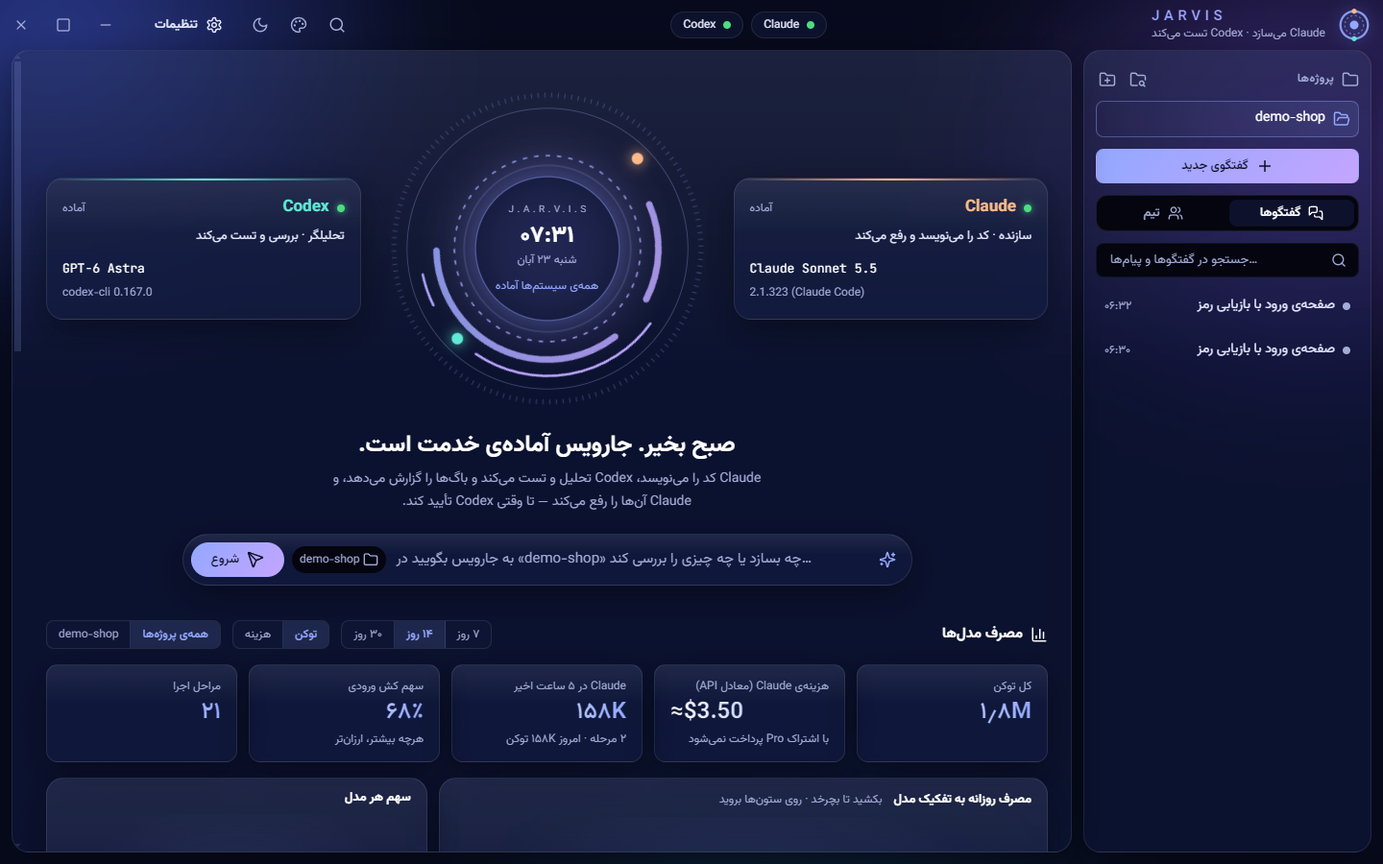
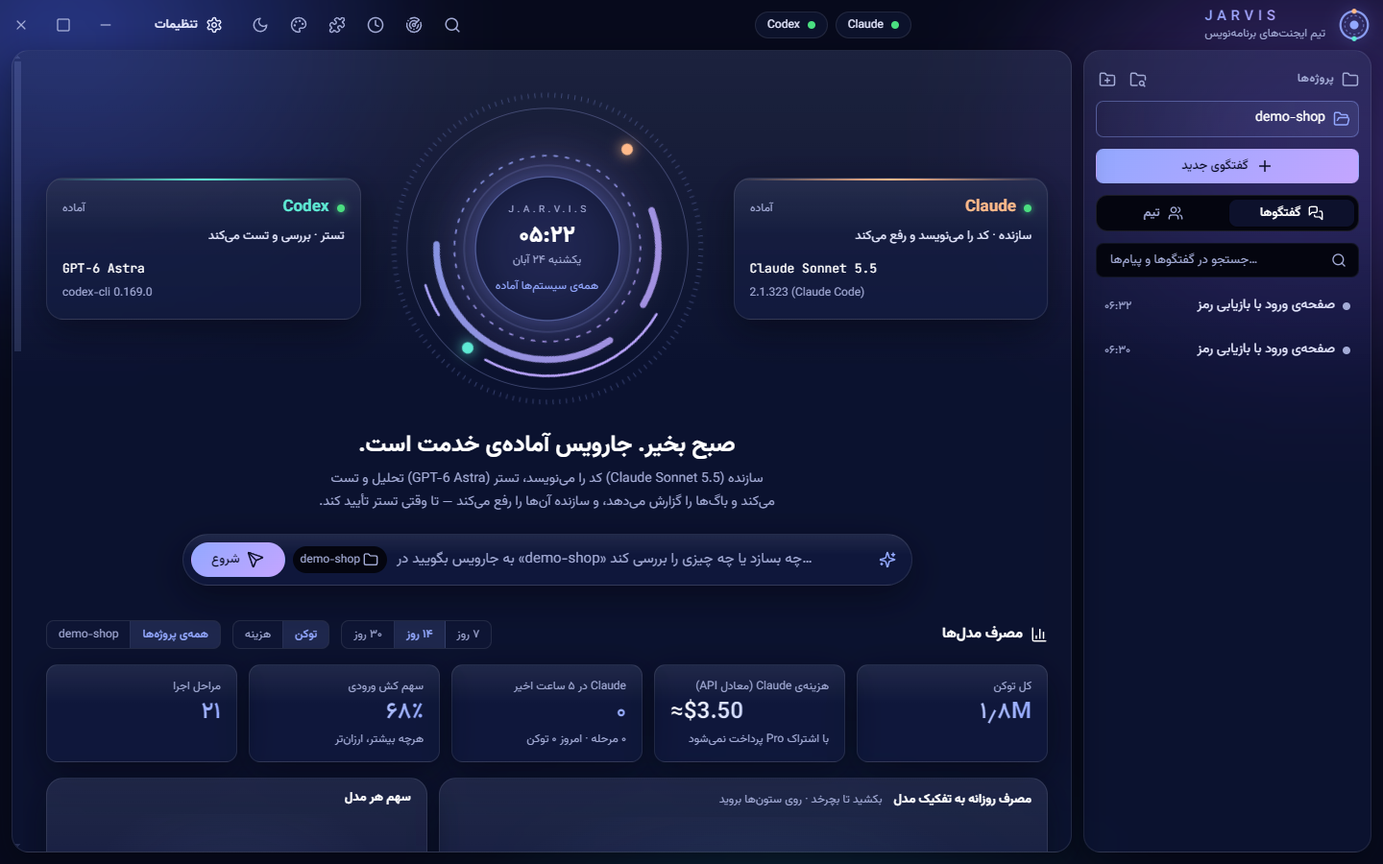
README rewritten for v1.3: new screenshots of every section and all 12 looks (dark and light); neutral home intro text

diff --git a/public/app.js b/public/app.js
@@ -1907,7 +1907,9 @@ function renderRoles() {
   if (sub) sub.textContent = 'تیم ایجنتهای برنامهنویس';
   const p = homeEl('#homeRoles');
   if (S.subagents) renderSubagents();
-  if (p) p.textContent = `${b} کد را مینویسد، ${r} تحلیل و تست میکند و باگها را گزارش میدهد، و ${b} آنها را رفع میکند — تا وقتی ${r} تأیید کند.`;
+  const ba = roleAgent('builder'), ra = roleAgent('reviewer');
+  const who = x => prettyModel(x.provider ? `p:${x.provider.id}:${x.model}` : x.model || (x.name === 'Codex' ? S.codexDefaultModel : '')) || x.name;
+  if (p) p.textContent = `سازنده (${who(ba)}) کد را مینویسد، تستر (${who(ra)}) تحلیل و تست میکند و باگها را گزارش میدهد، و سازنده آنها را رفع میکند — تا وقتی تستر تأیید کند.`;
 }
 
 // ---------- connections (custom APIs: DeepSeek, Kimi, GLM, OpenAI, …) ----------

diff --git a/README.md b/README.md
@@ -2,8 +2,11 @@
 
 # جارویس (JARVIS)
 
-**دو هوش مصنوعی برنامهنویس، کنار هم، روی کامپیوتر خودتان.**
-یکی **سازنده** است و کد را مینویسد؛ دیگری **تستر** است و کد را بررسی و تست میکند و باگها را میگوید. سازنده باگها را رفع میکند و این رفتوبرگشت آنقدر ادامه پیدا میکند تا تستر کار را تأیید کند. بهطور پیشفرض Claude میسازد و Codex تست میکند، ولی هر نقش را میتوانید به DeepSeek یا هر API دیگری بدهید.
+**یک تیم هوش مصنوعی برنامهنویس، روی کامپیوتر خودتان.**
+
+یک ایجنت **سازنده** کد را مینویسد. یک ایجنت **تستر** آن را بررسی و تست میکند و باگها را گزارش میدهد. سازنده باگها را رفع میکند و این رفتوبرگشت ادامه پیدا میکند تا تستر کار را تأیید کند.
+
+هر نقش را میتوانید به هر مدلی بدهید: Claude، ChatGPT (Codex)، DeepSeek یا هر API دیگری. در **حالت هوشمند**، خود جارویس کار را تقسیم میکند و هر بخش را به مدل مناسب و ارزانتر میدهد.
 
 ![صفحهی اصلی جارویس](docs/screenshots/home.png)
 
@@ -19,14 +22,19 @@
 
 1. [قبل از نصب چه لازم دارید؟](#قبل-از-نصب-چه-لازم-دارید)
 2. [نصب، قدم به قدم](#نصب-قدم-به-قدم)
-3. [اولین بار: وصل کردن Claude و Codex](#اولین-بار-وصل-کردن-claude-و-codex)
+3. [اولین بار: وصل کردن حسابها](#اولین-بار-وصل-کردن-حسابها)
 4. [اولین کار با جارویس](#اولین-کار-با-جارویس)
 5. [حالتهای کار](#حالتهای-کار)
-6. [اتصالدهندهها و پلاگینها](#اتصالدهندهها-و-پلاگینها)
-7. [صف کارها و اتاق عملیات](#صف-کارها-و-اتاق-عملیات)
-8. [ترفندهای کاربردی](#ترفندهای-کاربردی)
-9. [بهروزرسانی](#بهروزرسانی)
-10. [اگر به مشکل خوردید](#اگر-به-مشکل-خوردید)
+6. [حالت هوشمند](#حالت-هوشمند)
+7. [اتصالدهندهها (MCP)](#اتصالدهندهها-mcp)
+8. [پلاگینها](#پلاگینها)
+9. [صف کارها](#صف-کارها)
+10. [اتاق عملیات سهبعدی](#اتاق-عملیات-سهبعدی)
+11. [۱۲ ظاهر](#۱۲-ظاهر)
+12. [امکانات دیگر](#امکانات-دیگر)
+13. [ترفندهای کاربردی](#ترفندهای-کاربردی)
+14. [بهروزرسانی](#بهروزرسانی)
+15. [اگر به مشکل خوردید](#اگر-به-مشکل-خوردید)
 
 ---
 
@@ -35,12 +43,14 @@
 | چه چیزی | چرا | از کجا |
 |---|---|---|
 | ویندوز ۱۰ یا ۱۱ (۶۴ بیتی) | جارویس برنامهی ویندوز است | — |
-| **کلید API از Anthropic** | تا Claude کد بنویسد | [console.anthropic.com](https://console.anthropic.com/settings/keys) |
-| **حساب ChatGPT** (یا کلید API از OpenAI) | تا Codex بررسی و تست کند | [chatgpt.com](https://chatgpt.com) |
-| Node.js | فقط برای نصب Codex | [nodejs.org](https://nodejs.org) — نسخهی LTS |
+| **کلید API از Anthropic** | برای مدلهای Claude | [console.anthropic.com](https://console.anthropic.com/settings/keys) |
+| **حساب ChatGPT** (یا کلید API از OpenAI) | برای Codex | [chatgpt.com](https://chatgpt.com) |
+| Node.js | برای نصب Codex و بیشتر اتصالدهندهها | [nodejs.org](https://nodejs.org) — نسخهی LTS |
 | Git (پیشنهادی) | برای نقطهی بازگشت و دیدن تغییرات هر فایل | [git-scm.com](https://git-scm.com/downloads) |
 
-> **لازم نیست** Claude Code یا Codex را جداگانه نصب کنید: خود جارویس در اولین اجرا نصبشان میکند.
+> **لازم نیست** هم Claude داشته باشید و هم ChatGPT. با یکی از آنها، یا فقط با یک API دیگر (مثلاً DeepSeek) هم کار میکند.
+>
+> Claude Code و Codex را هم لازم نیست جداگانه نصب کنید: خود جارویس در اولین اجرا نصبشان میکند.
 
 ---
 
@@ -60,47 +70,49 @@
 
 ---
 
-## اولین بار: وصل کردن Claude و Codex
+## اولین بار: وصل کردن حسابها
 
-بار اول خودبهخود پنجرهی **«اتصال حسابها»** باز میشود (بعداً هم از زبانهی **تیم** ← **اتصال حسابها** در دسترس است). هر کارت باید سبز و **«متصل»** شود.
+بار اول خودبهخود پنجرهی **«اتصالها»** باز میشود. بعداً هم از زبانهی **تیم** ← **اتصال حسابها** در دسترس است. هر کارت باید سبز و **«متصل»** شود.
 
 ### Claude
-1. اگر نوشته «Claude CLI نصب نیست»، روی **نصب Claude CLI** بزنید. یک پنجرهی سیاه باز میشود و نصب میکند؛ وقتی تمام شد آن را ببندید و **بررسی دوباره** را بزنید.
+1. اگر نوشته «Claude CLI نصب نیست»، روی **نصب Claude CLI** بزنید. یک پنجرهی سیاه باز میشود و نصب میکند. وقتی تمام شد آن را ببندید و **بررسی دوباره** را بزنید.
 2. روی **گرفتن کلید از Anthropic Console** بزنید. در سایت وارد شوید، **Create Key** را بزنید و کلیدی را که با `sk-ant-` شروع میشود کپی کنید.
 3. کلید را در کادر جارویس بچسبانید و **ذخیرهی کلید** را بزنید.
 
-### Codex
+### Codex (ChatGPT)
 1. اگر نوشته «برای نصب Codex اول Node.js لازم است»، روی **دانلود Node.js** بزنید، آن را نصب کنید و جارویس را یک بار ببندید و باز کنید.
-2. روی **نصب Codex CLI** بزنید؛ وقتی پنجرهی نصب تمام شد، **بررسی دوباره** را بزنید.
-3. روی **ورود با حساب ChatGPT** بزنید. مرورگر باز میشود؛ وارد حساب ChatGPT شوید و اجازه بدهید. (یا بهجای آن، کلید API از OpenAI را ذخیره کنید.)
+2. روی **نصب Codex CLI** بزنید. وقتی پنجرهی نصب تمام شد، **بررسی دوباره** را بزنید.
+3. روی **ورود با حساب ChatGPT** بزنید. مرورگر باز میشود؛ وارد حساب ChatGPT شوید و اجازه بدهید. بهجای آن میتوانید کلید API از OpenAI را ذخیره کنید.
 
-> کلیدها فقط روی همین کامپیوتر و رمزنگاریشده ذخیره میشوند و هیچجا فرستاده نمیشوند.
+> کلیدها رمزنگاریشده و فقط روی همین کامپیوتر ذخیره میشوند.
 
-### اتصال به DeepSeek و APIهای دیگر
+### DeepSeek و APIهای دیگر
 
-لازم نیست حتماً Claude و Codex باشند. در پنجرهی **اتصالها**، بخش **اتصالهای دیگر**، روی **افزودن اتصال** بزنید:
+در پنجرهی **اتصالها**، بخش **اتصالهای دیگر**، روی **افزودن اتصال** بزنید:
 
-1. **سرویس** را انتخاب کنید (DeepSeek، Kimi، GLM، MiniMax، OpenAI یا سفارشی). آدرس خودش پر میشود.
-2. **کلید API** همان سرویس را بچسبانید (لینک «گرفتن کلید» کنارش است).
-3. **دریافت فهرست مدلها** و بعد **آزمایش اتصال** را بزنید؛ باید بنویسد «اتصال برقرار است».
-4. **ذخیره** را بزنید.
+1. **سرویس** را انتخاب کنید: DeepSeek، Kimi، GLM، MiniMax، OpenAI یا سفارشی. آدرسش خودش پر میشود.
+2. **کلید API** همان سرویس را بچسبانید. لینک «گرفتن کلید» کنارش است.
+3. **دریافت فهرست مدلها** و بعد **آزمایش اتصال** را بزنید. باید بنویسد «اتصال برقرار است».
+4. اگر بخواهید، **قیمت** هر یک میلیون توکن را وارد کنید تا هزینهاش حساب شود.
+5. **آزمایش کامل** یک کار واقعی کوچک را یک بار بهعنوان سازنده و یک بار بهعنوان تستر اجرا میکند.
+6. **ذخیره** را بزنید.
 
 حالا در **تنظیمات ← مدلها** یا پایین کادر پیام، آن را برای **سازنده** یا **تستر** انتخاب کنید. هر ترکیبی کار میکند؛ مثلاً DeepSeek بسازد و Codex تست کند.
 
-> کلید هر اتصال فقط به همان سرویس فرستاده میشود و هر اتصال پروفایل جدای خودش را دارد؛ ورود Claude و ChatGPT شما هرگز به آن سرویسها داده نمیشود.
+> کلید هر اتصال فقط به همان سرویس فرستاده میشود و هر اتصال پروفایل جدای خودش را دارد. ورود Claude و ChatGPT شما هرگز به آن سرویسها داده نمیشود.
 
 ---
 
 ## اولین کار با جارویس
 
-**۱. یک پروژه اضافه کنید** — در نوار کناری، کنار «پروژهها»، روی آیکون پوشه با علامت **+** بزنید و مسیر پوشهی پروژه را بنویسید (مثلاً `C:\Projects\my-site`). یا آیکون ذرهبین را بزنید تا جارویس پروژههایی را که قبلاً با Claude یا Codex باز کردهاید خودش پیدا کند.
+**۱. یک پروژه اضافه کنید** — در نوار کناری، کنار «پروژهها»، روی آیکون پوشه با علامت **+** بزنید و مسیر پوشهی پروژه را بنویسید (مثلاً `C:\Projects\my-site`). آیکون ذرهبین پروژههایی را که قبلاً با Claude Code یا Codex باز کردهاید خودش پیدا میکند.
 
 **۲. فرمان بدهید** — در صفحهی اصلی، در کادر وسط بنویسید چه میخواهید؛ مثلاً:
 > یک صفحهی ورود با بازیابی رمز عبور بساز
 
 و **شروع** را بزنید.
 
-**۳. تماشا کنید** — Claude مینویسد، Codex بررسی میکند، اگر باگی بود Claude رفع میکند. در پایان یک **گزارش** میآید: چه فایلهایی عوض شد، چند دور طول کشید و آیا تأیید شد.
+**۳. تماشا کنید** — سازنده مینویسد، جارویس تستهای خود پروژه را اجرا میکند، تستر بررسی میکند و اگر باگی بود سازنده رفع میکند. در پایان یک **گزارش** میآید: چه فایلهایی عوض شد، چند دور طول کشید، هزینه چقدر شد و آیا تأیید شد.
 
 ![یک گفتگو در جارویس](docs/screenshots/chat.png)
 
@@ -115,76 +127,163 @@
 | حالت | چه میکند | کی به درد میخورد |
 |---|---|---|
 | **تیمی** | سازنده مینویسد ← تستر تست میکند ← سازنده رفع میکند | بیشتر وقتها |
-| **هوشمند** | جارویس کار را به چند بخش تقسیم میکند و هر بخش را با مدل مناسبش انجام میدهد؛ بعد تستر کل کار را بررسی میکند | کارهای بزرگ، وقتی میخواهید ارزانتر تمام شود |
+| **هوشمند** | جارویس کار را تقسیم میکند و هر بخش را با مدل مناسبش انجام میدهد؛ بعد تستر کل کار را بررسی میکند | کارهای بزرگ، وقتی میخواهید ارزانتر تمام شود |
 | **بازرسی و رفع** | اول تستر کل پروژه را بررسی میکند، بعد سازنده باگها را رفع میکند | پروژهی موجودی که مشکل دارد |
 | **طراحی** | سازنده طرح میدهد، تستر نقد میکند، طرح نهایی (بدون تغییر کد) | قبل از یک کار بزرگ |
 | **فقط سازنده** | بدون بررسی | سؤال یا کار سریع |
 | **فقط تستر** | فقط خواندنی | نظر دوم دربارهٔ کد |
 
-پایین کادر پیام میتوانید **مدل** سازنده و تستر را برای همین گفتگو انتخاب کنید، و **برآورد هزینه**ی کار بعدی را ببینید.
-
-### حالت هوشمند چطور کار میکند؟
-
-1. یک مدل ارزان و سریع (پیشفرض: Claude Haiku 5.5) پیام شما را میخواند و کار را به ۱ تا ۶ بخش تقسیم میکند. هر بخش یک سطح دارد: **سخت**، **متوسط** یا **ساده**.
-2. هر سطح با مدل خودش انجام میشود (پیشفرض: سخت ← Claude Opus 5.5، متوسط ← Claude Sonnet 5.5، ساده ← Claude Haiku 5.5). در **تنظیمات ← حالت هوشمند** میتوانید هر سطح را به هر مدل یا اتصالی (مثل DeepSeek) بدهید.
-3. یک کارت، برنامه و هزینهی تخمینی را نشان میدهد و آن را با هزینهی «همه با قویترین مدل» مقایسه میکند. اگر «اجرای خودکار» را خاموش کنید، قبل از شروع میتوانید مدل هر بخش را عوض کنید.
-4. در آخر تستر کل کار را بررسی میکند و باگها با مدل «متوسط» رفع میشوند.
-
-برای یک تغییر کوچک، برنامهریز فقط یک بخش میسازد؛ پس حالت هوشمند گرانتر از تیمی نمیشود.
+پایین کادر پیام:
+- **ترکیب تیم**: ترکیبهای آماده، مثلاً «قوی»، «متعادل»، «اقتصادی» یا «DeepSeek برای هر دو نقش». ترکیب خودتان را هم میتوانید ذخیره کنید.
+- **مدل و میزان فکر** سازنده و تستر، برای همین گفتگو.
+- **برآورد هزینه**ی کار بعدی، بر اساس کارهای قبلی.
 
 ---
 
-## اتصالدهندهها و پلاگینها
+## حالت هوشمند
 
-دکمهی 🧩 بالای صفحه.
+![کارت تقسیم کار هوشمند](docs/screenshots/smart.png)
 
-**اتصالدهندهها (MCP)** همان سرورهای MCP هستند که Claude Code هم استفاده میکند: ابزارهای اضافه برای ایجنتها، مثل مرورگر واقعی (Playwright)، مستندات بهروز (Context7)، GitHub، پایگاهداده و جستجو. چند نمونهی آماده هست و هر سرور دیگری را هم میتوانید اضافه کنید.
+1. یک مدل ارزان و سریع (پیشفرض: Claude Haiku 5.5) پیام شما را میخواند و کار را به ۱ تا ۶ بخش تقسیم میکند. هر بخش یک سطح دارد: **سخت**، **متوسط** یا **ساده**.
+2. هر سطح با مدل خودش انجام میشود. پیشفرض: سخت ← Claude Opus 5.5، متوسط ← Claude Sonnet 5.5، ساده ← Claude Haiku 5.5.
+3. یک کارت، برنامه و هزینهی تخمینی را نشان میدهد و آن را با هزینهی «همه با قویترین مدل» مقایسه میکند.
+4. هر بخش خلاصهی کار بخشهای قبلی را میگیرد تا چیزی گم نشود.
+5. در آخر تستر کل کار را بررسی میکند و باگها با مدل «متوسط» رفع میشوند.
+
+در **تنظیمات ← حالت هوشمند** میتوانید هر سطح را به هر مدل یا اتصالی (مثلاً DeepSeek) بدهید. اگر «اجرای خودکار» را خاموش کنید، قبل از شروع میتوانید مدل هر بخش را عوض کنید.
+
+![تنظیمات حالت هوشمند](docs/screenshots/settings.png)
+
+> برای یک تغییر کوچک، برنامهریز فقط یک بخش میسازد؛ پس حالت هوشمند گرانتر از تیمی نمیشود.
+
+---
+
+## اتصالدهندهها (MCP)
+
+دکمهی 🧩 بالای صفحه ← زبانهی **اتصالدهندهها**.
+
+اتصالدهندهها همان سرورهای MCP هستند که Claude Code هم استفاده میکند: ابزارهای اضافه برای ایجنتها. چند نمونهی آماده هست:
+
+| اتصالدهنده | چه میکند |
+|---|---|
+| **Playwright** | مرورگر واقعی: باز کردن صفحه، کلیک، اسکرینشات — عالی برای تستر وب |
+| **Context7** | مستندات بهروز کتابخانهها، برای نوشتن کد درست |
+| **GitHub** | Issueها، Pull Requestها و کد مخزنها |
+| **PostgreSQL** | خواندن ساختار و دادهی پایگاهداده |
+| **Memory** | حافظهی ماندگار بین اجراها |
+| **Sequential Thinking** | فکر کردن مرحلهبهمرحله برای مسئلههای سخت |
+| **Brave Search** | جستجوی وب |
+
+با **اتصالدهندهی دلخواه** هر سرور MCP دیگری را هم اضافه کنید: یک فرمان (مثل `npx …`) یا یک آدرس https.
+
+![اتصالدهندهها](docs/screenshots/connectors.png)
+
 - برای هر کدام انتخاب کنید به **سازنده**، **تستر اصلی** یا **سابایجنتها** داده شود.
 - روی همهی موتورها کار میکند: Claude، Codex و اتصالهایی مثل DeepSeek.
 - دکمهی **آزمایش** سرور را اجرا میکند و فهرست ابزارهایش را نشان میدهد.
 - کلیدها و توکنها رمزنگاریشده و فقط روی همین کامپیوتر ذخیره میشوند.
 
-**پلاگینها** با همان قالب پلاگینهای Claude Code هستند. از سه جا نصب میشوند:
-- یک مخزن GitHub یا مارکتپلیس (مثلاً `anthropics/claude-plugins-official`)
+---
+
+## پلاگینها
+
+دکمهی 🧩 بالای صفحه ← زبانهی **پلاگینها**.
+
+پلاگینها با همان قالب پلاگینهای Claude Code هستند و از سه جا نصب میشوند:
+- یک مخزن GitHub یا یک مارکتپلیس، مثلاً `anthropics/claude-plugins-official` (بیش از ۳۰۰ پلاگین) یا `anthropics/claude-code`
 - پلاگینهایی که در خود Claude Code نصب کردهاید
 - یک پوشه
 
+![نصب پلاگین از مارکتپلیس](docs/screenshots/plugins.png)
+
 بعد از نصب:
-- ایجنتهای پلاگین به تیم اضافه میشوند: بررسیکنندهها کنار تستر، بقیه کمک سازنده.
-- اسکیلها به ایجنتها وصل میشوند.
-- فرمانها بالای کادر پیام میآیند.
-- سرورهای MCP پلاگین به اتصالدهندهها اضافه میشوند.
+- **ایجنتهای** پلاگین به تیم اضافه میشوند: بررسیکنندهها کنار تستر، بقیه کمک سازنده.
+- **اسکیلها** به ایجنتها وصل میشوند. اگر پلاگین ایجنت نداشته باشد، اسکیلها به خود سازنده داده میشوند.
+- **فرمانها** بالای کادر پیام میآیند.
+- **سرورهای MCP** پلاگین به اتصالدهندهها اضافه میشوند، ولی **خاموش**. اول فرمانشان را ببینید و اگر اعتماد دارید روشنشان کنید.
 
 ---
 
-## صف کارها و اتاق عملیات
+## صف کارها
 
-**صف کارها** (دکمهی 🕒): چند کار، حتی برای پروژههای مختلف، بچینید تا یکییکی اجرا شوند؛ همین حالا یا از ساعتی که تعیین میکنید، مثلاً شب. اگر «اعلان روی گوشی» روشن باشد، آخر کار خلاصهی نتیجه به بله یا تلگرام شما میآید.
+دکمهی 🕒 بالای صفحه.
 
-**اتاق عملیات** (دکمهی 📡): نمای سهبعدی و زندهی همهی ایجنتهایی که الان کار میکنند.
+چند کار، حتی برای پروژههای مختلف، بچینید تا یکییکی اجرا شوند؛ همین حالا یا از ساعتی که تعیین میکنید، مثلاً شب. اگر **اعلان روی گوشی** روشن باشد، آخر کار خلاصهی نتیجه به بله یا تلگرام شما میآید.
+
+![صف کارها](docs/screenshots/queue.png)
+
+---
+
+## اتاق عملیات سهبعدی
+
+دکمهی 📡 بالای صفحه.
+
+نمای سهبعدی و زندهی همهی ایجنتهایی که الان کار میکنند، دور واکنشگر مرکزی جارویس:
 - بالای هر ایجنت نوشته میشود الان چه میکند، مثلاً «در حال نوشتن src/cart.js» یا «اجرای npm test».
-- وقتی کار از یک ایجنت به ایجنت دیگر میرسد، پرتویی بینشان رد میشود.
-- با کلیک روی هر ایجنت، گزارش زندهاش باز میشود.
+- رنگها: نارنجی سازنده، فیروزهای تستر، سبز سابایجنتها.
+- وقتی کار از یک ایجنت به ایجنت دیگر میرسد، پرتویی بینشان رد میشود. ویرایش هر فایل جرقه میزند.
+- با کلیک روی هر ایجنت، گزارش زندهاش باز میشود. با موس صحنه را بچرخانید و زوم کنید.
+
+![اتاق عملیات سهبعدی](docs/screenshots/ops.png)
+
+---
+
+## ۱۲ ظاهر
+
+دکمهی 🎨 بالای صفحه. هر ظاهر نسخهی تیره و روشن دارد. کنار آن، دکمهی 🌙 تیره، روشن یا هماهنگ با ویندوز را انتخاب میکند.
+
+![انتخاب ظاهر](docs/screenshots/looks.png)
+
+<table>
+<tr><th>ظاهر</th><th>تیره</th><th>روشن</th></tr>
+<tr><td><b>هولوگرام</b><br><code>holo</code></td><td><img src="docs/screenshots/skins/skin-holo-dark.png" width="360" alt="هولوگرام — تیره"></td><td><img src="docs/screenshots/skins/skin-holo-light.png" width="360" alt="هولوگرام — روشن"></td></tr>
+<tr><td><b>نیمهشب</b><br><code>midnight</code></td><td><img src="docs/screenshots/skins/skin-midnight-dark.png" width="360" alt="نیمهشب — تیره"></td><td><img src="docs/screenshots/skins/skin-midnight-light.png" width="360" alt="نیمهشب — روشن"></td></tr>
+<tr><td><b>زره</b><br><code>armor</code></td><td><img src="docs/screenshots/skins/skin-armor-dark.png" width="360" alt="زره — تیره"></td><td><img src="docs/screenshots/skins/skin-armor-light.png" width="360" alt="زره — روشن"></td></tr>
+<tr><td><b>راکتور</b><br><code>arc</code></td><td><img src="docs/screenshots/skins/skin-arc-dark.png" width="360" alt="راکتور — تیره"></td><td><img src="docs/screenshots/skins/skin-arc-light.png" width="360" alt="راکتور — روشن"></td></tr>
+<tr><td><b>جنگل</b><br><code>forest</code></td><td><img src="docs/screenshots/skins/skin-forest-dark.png" width="360" alt="جنگل — تیره"></td><td><img src="docs/screenshots/skins/skin-forest-light.png" width="360" alt="جنگل — روشن"></td></tr>
+<tr><td><b>اقیانوس</b><br><code>ocean</code></td><td><img src="docs/screenshots/skins/skin-ocean-dark.png" width="360" alt="اقیانوس — تیره"></td><td><img src="docs/screenshots/skins/skin-ocean-light.png" width="360" alt="اقیانوس — روشن"></td></tr>
+<tr><td><b>غروب</b><br><code>sunset</code></td><td><img src="docs/screenshots/skins/skin-sunset-dark.png" width="360" alt="غروب — تیره"></td><td><img src="docs/screenshots/skins/skin-sunset-light.png" width="360" alt="غروب — روشن"></td></tr>
+<tr><td><b>گلسرخ</b><br><code>rose</code></td><td><img src="docs/screenshots/skins/skin-rose-dark.png" width="360" alt="گلسرخ — تیره"></td><td><img src="docs/screenshots/skins/skin-rose-light.png" width="360" alt="گلسرخ — روشن"></td></tr>
+<tr><td><b>کاغذ</b><br><code>paper</code></td><td><img src="docs/screenshots/skins/skin-paper-dark.png" width="360" alt="کاغذ — تیره"></td><td><img src="docs/screenshots/skins/skin-paper-light.png" width="360" alt="کاغذ — روشن"></td></tr>
+<tr><td><b>شمال</b><br><code>nord</code></td><td><img src="docs/screenshots/skins/skin-nord-dark.png" width="360" alt="شمال — تیره"></td><td><img src="docs/screenshots/skins/skin-nord-light.png" width="360" alt="شمال — روشن"></td></tr>
+<tr><td><b>سایبرپانک</b><br><code>cyber</code></td><td><img src="docs/screenshots/skins/skin-cyber-dark.png" width="360" alt="سایبرپانک — تیره"></td><td><img src="docs/screenshots/skins/skin-cyber-light.png" width="360" alt="سایبرپانک — روشن"></td></tr>
+<tr><td><b>تکرنگ</b><br><code>mono</code></td><td><img src="docs/screenshots/skins/skin-mono-dark.png" width="360" alt="تکرنگ — تیره"></td><td><img src="docs/screenshots/skins/skin-mono-light.png" width="360" alt="تکرنگ — روشن"></td></tr>
+</table>
+
+---
+
+## امکانات دیگر
+
+- **تستهای خود پروژه** — جارویس بعد از هر دور، تستهای پروژه را خودش اجرا میکند (npm test، pytest، go test و …). تا تستها پاس نشوند، کار تأیید نمیشود.
+- **سابایجنتها** — متخصصهایی مثل امنیت، کارایی، UI/UX، نوشتن تست و مستندات، که کنار تستر یا کمک سازنده کار میکنند. با `@نام` در پیام مستقیم صدایشان کنید. هر کدام اسکیل و مدل خودش را میتواند داشته باشد.
+- **جایگزین خودکار** — اگر سازنده یا تستر خطا داد، همان مرحله یک بار با مدل جایگزین تکرار میشود.
+- **سهمیهی اشتراک** — اگر سهمیهی Claude پر شد، جارویس صبر میکند و بعد از تمدید خودش ادامه میدهد، یا Codex موقتاً جای سازنده کد مینویسد.
+- **خلاصه و ادامه** — گفتگوهای خیلی طولانی را خلاصه کنید و با نشست تازه ادامه دهید تا ارزانتر شود.
+- **حافظهی پروژه** — جارویس قانونهایی را که از کار یاد گرفته پیشنهاد میدهد. با یک کلیک به `CLAUDE.md` و `AGENTS.md` اضافه میشوند.
+- **اعلان روی گوشی** — پایان هر کار در بله یا تلگرام خبر داده میشود.
+- **تغییرات فایل به فایل** — ببینید هر فایل چطور عوض شد و هر کدام را جدا برگردانید. commit و Pull Request هم از خود جارویس.
+- **پیشنمایش** — پروژهی وب را اجرا کنید و همانجا ببینید.
+- **بازرسی زمانبندیشده** — هر روز در ساعتی که تعیین میکنید، پروژه خودکار بازرسی شود.
+- **نمودار مصرف** — توکنها و هزینهی هر مدل در صفحهی اصلی، به تفکیک Claude، ChatGPT و اتصالهای دیگر.
+- **پشتیبانگیری**، **عیبیابی** و **بهروزرسانی CLIها** از زبانهی **تیم**.
 
 ---
 
 ## ترفندهای کاربردی
 
-- **تصویر بفرستید** — اسکرینشات را با `Ctrl+V` در کادر پیام بچسبانید یا بکشید داخلش؛ Claude آن را میبیند.
+- **تصویر بفرستید** — اسکرینشات را با `Ctrl+V` در کادر پیام بچسبانید یا بکشید داخلش؛ ایجنت آن را میبیند.
 - **جستجو و فرمان سریع** — `Ctrl+K` را بزنید و هر پروژه، گفتگو یا فرمانی را پیدا کنید.
-- **فرمانهای آماده** — دستورهایی که زیاد تکرار میکنید را ذخیره کنید (دکمهی مداد بالای کادر پیام).
+- **فرمانهای آماده** — دستورهایی که زیاد تکرار میکنید را ذخیره کنید (دکمهی مداد بالای کادر پیام). فرمانهای پلاگینها هم همانجا میآیند.
 - **فرمانهای قبلی** — در کادر پیام کلید `↑` را بزنید.
+- **پیام وسط کار** — وقتی تیم در حال کار است هم پیام بفرستید؛ در مرحلهی بعد به سازنده میرسد.
 - **کار در پسزمینه** — اگر پنجره را ببندید، جارویس کنار ساعت ویندوز میماند و کار ادامه پیدا میکند. خروج کامل: راستکلیک روی آیکون کنار ساعت ← **خروج کامل**.
 - **میانبر** — `Ctrl+Shift+J` از هر جای ویندوز جارویس را باز میکند.
-- **۱۲ ظاهر** — دکمهی 🎨 بالای صفحه؛ هر کدام تیره و روشن دارد.
-
-![انتخاب ظاهر](docs/screenshots/looks.png)
 
 ---
 
 ## بهروزرسانی
 
-کاری لازم نیست. جارویس هر چند ساعت نسخهی تازه را از همین صفحه بررسی و در پسزمینه دانلود میکند. وقتی آماده شد، پایین صفحه نوار **«نسخهی تازه آمادهی نصب است»** میآید؛ **نصب و راهاندازی دوباره** را بزنید (یا بگذارید با بستن کامل برنامه خودش نصب شود).
+کاری لازم نیست. جارویس هر چند ساعت نسخهی تازه را بررسی و در پسزمینه دانلود میکند. وقتی آماده شد، پایین صفحه نوار **«نسخهی تازه آمادهی نصب است»** میآید. **نصب و راهاندازی دوباره** را بزنید، یا بگذارید با بستن کامل برنامه خودش نصب شود.
 
 بررسی دستی: زبانهی **تیم** ← **عیبیابی** ← **بررسی بهروزرسانی**.
 
@@ -209,6 +308,14 @@
 <summary><b>Codex نصب نمیشود</b></summary>
 
 Node.js را از [nodejs.org](https://nodejs.org) نصب کنید (نسخهی LTS)، جارویس را کامل ببندید و دوباره باز کنید، بعد **نصب Codex CLI** را بزنید.
+</details>
+
+<details>
+<summary><b>یک اتصالدهنده کار نمیکند</b></summary>
+
+- دکمهی **آزمایش** را بزنید؛ خطای دقیق را نشان میدهد.
+- بیشتر اتصالدهندهها با `npx` اجرا میشوند و Node.js لازم دارند. بار اول دانلودشان ممکن است یک دقیقه طول بکشد.
+- اگر نوشته «مقدار لازم وارد نشده»، روی **ویرایش** بزنید و کلید یا توکنش را وارد کنید.
 </details>
 
 <details>
@@ -251,7 +358,9 @@ npm start
 
 ساخت نصبکننده: `npm run dist` (خروجی در `dist/`).
 
-انتشار نسخهی جدید: `npm run release` — شمارهی نسخه را بالا میبرد و تگ را push میکند؛ GitHub Actions تستها را اجرا، نصبکننده را میسازد و در Releases منتشر میکند و نسخههای نصبشده خودشان بهروز میشوند.
+انتشار نسخهی جدید: `npm run release` — شمارهی نسخه را بالا میبرد و تگ را push میکند. GitHub Actions تستها را اجرا میکند، نصبکننده را میسازد و در Releases منتشر میکند. نسخههای نصبشده خودشان بهروز میشوند.
+
+ساختار: `server.js` (سرور محلی)، `lib/orchestrator.js` (جریان تیم و حالت هوشمند)، `lib/connectors.js` (MCP)، `lib/plugins.js` (پلاگینها)، `lib/queue.js` (صف کارها)، `public/` (پنل)، `public/ops3d.js` (اتاق عملیات).
 
 طراحی: توکنها در `design/tokens.json`، ۱۲ ظاهر در `design/skins.cjs`؛ جزئیات در [design/DESIGN.md](design/DESIGN.md).
 </details>
